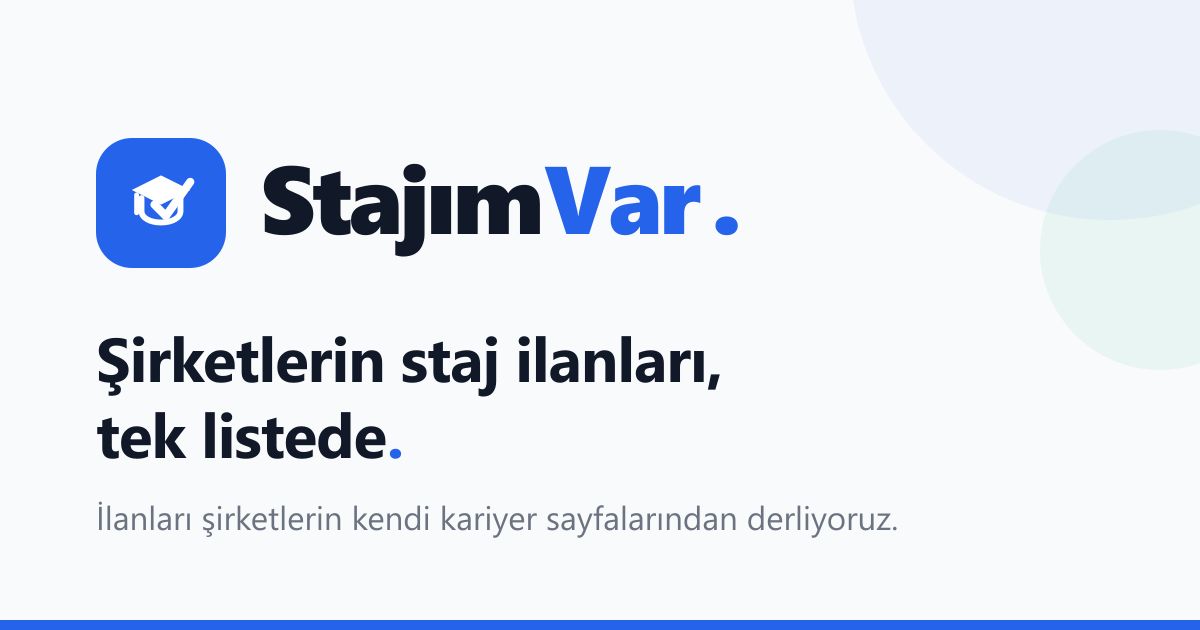
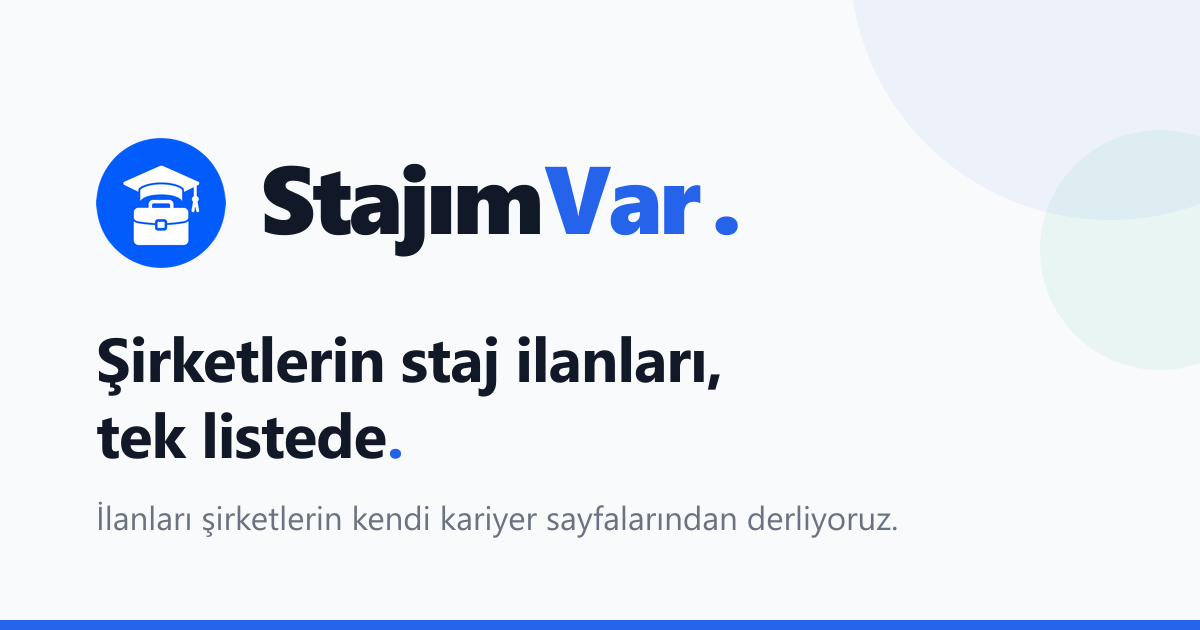
Logoyu markanın kendi çizimiyle değiştir
Başlıktaki amblem, kod içine elle yazılmış bir SVG'ydi. Yeni logo aynı
yöntemle yeniden çizildiğinde orijinalden gözle görülür biçimde sapıyordu;
artık çizimin kendisi (assets/logo-kaynak.png) ölçekleniyor.

Sekme ve uygulama ikonları da aynı dosyadan üretiliyor (npm run ikonlar):
beş PNG elle hazırlandığında logo değişince biri güncellenip diğerleri eski
logoyla kalıyordu. Paylaşım görseli de artık sitedekiyle aynı amblemi
bindiriyor.

Daire dışı saydam — gri sayfa zemininde amblemin çevresinde beyaz bir kare
kalıyordu. iOS ve maskable ikonlarda saydamlık siyaha boyandığı için amblem
mavi kare zemine oturtuluyor.

Kaynak PNG'nin sıkıştırma artıkları ölçeklemeden önce iki renge indirgeniyor:
düz mavi alandaki ton oynamaları hem kenarları kirletiyor hem dosyayı yedi
kat büyütüyordu.

Changed region(s): [[0.0617, 0.2111, 0.2158, 0.4222]]

diff --git a/src/components/Logo.tsx b/src/components/Logo.tsx
@@ -15,7 +15,6 @@ export const Logo: React.FC<LogoProps> = ({
 }) => {
   // Dimensions (with responsive classes)
   const circleSize = size === 'sm' ? 26 : size === 'lg' ? 44 : 34;
-  const iconSize = size === 'sm' ? 15 : size === 'lg' ? 24 : 18;
 
   const textClass =
     size === 'sm'
@@ -32,52 +31,24 @@ export const Logo: React.FC<LogoProps> = ({
         onClick ? 'cursor-pointer' : ''
       } ${className}`}
     >
-      {/* Monochromatic Royal Blue Circular Emblem */}
-      <div
+      {/*
+        Amblem: markanın kendi çizimi, `assets/logo-kaynak.png`.
+
+        Vektörle yeniden çizilmiş bir taklit denendi ve orijinalden gözle
+        görülür biçimde sapıyordu; artık çizimin kendisi ölçekleniyor.
+        Daire dışı saydam, böylece amblem gri sayfa zemininde de beyaz bir
+        kare bırakmıyor. Aynı dosyadan sekme ve uygulama ikonları da
+        üretiliyor: `npm run ikonlar`.
+      */}
+      <img
+        src="/logo.png"
+        alt=""
+        width={circleSize}
+        height={circleSize}
         style={{ width: circleSize, height: circleSize }}
-        className="relative shrink-0 bg-blue-600 group-hover:bg-blue-700 rounded-2xl flex items-center justify-center shadow-xs transition-all duration-200 group-hover:scale-105"
+        className="block shrink-0 rounded-full shadow-xs transition-transform duration-200 group-hover:scale-105"
         title="stajimvar.com"
-      >
-        {/* Sleek Minimal Graduation & Placement Vector */}
-        <svg
-          width={iconSize}
-          height={iconSize}
-          viewBox="0 0 24 24"
-          fill="none"
-          xmlns="http://www.w3.org/2000/svg"
-        >
-          {/* Graduation Cap Diamond Top (Pure White) */}
-          <path
-            d="M12 3.5L3 8L12 12.5L21 8L12 3.5Z"
-            fill="white"
-          />
-
-          {/* Under-cap Arc Band */}
-          <path
-            d="M6 10.5V14.5C6 16.5 8.5 18 12 18C15.5 18 18 16.5 18 14.5V10.5"
-            stroke="white"
-            strokeWidth="1.8"
-            strokeLinecap="round"
-          />
-
-          {/* Tassel on Left */}
-          <path
-            d="M4.5 9.5V15"
-            stroke="white"
-            strokeWidth="1.5"
-            strokeLinecap="round"
-          />
-
-          {/* Clean Placement Check Mark */}
-          <path
-            d="M10 12.5L13.5 16L21 5.5"
-            stroke="white"
-            strokeWidth="2.5"
-            strokeLinecap="round"
-            strokeLinejoin="round"
-          />
-        </svg>
-      </div>
+      />
 
       {/* Monochromatic Pure Brand Wordmark */}
       <div className="relative inline-flex items-baseline leading-none">
